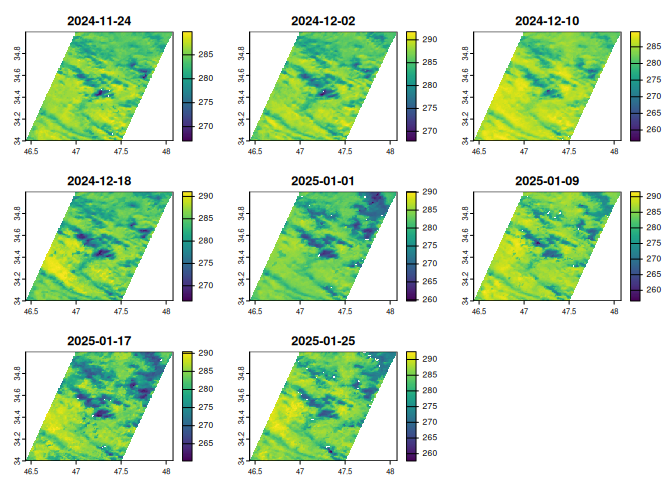
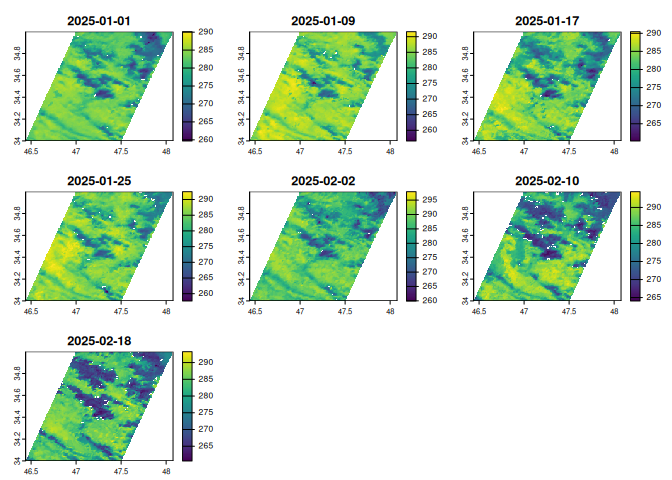
update readme

diff --git a/README.md b/README.md
@@ -14,17 +14,17 @@ Store - Microsoft Planetary Computer
 
 To install the development version of `getsat` from
 [GitHub](https://github.com/), use the
-[pak](https://CRAN.R-project.org/package=pak) package:
+[remotes](https://CRAN.R-project.org/package=remotes) package:
 
 ``` r
 # Install pak if not already installed
-install.packages("pak")
+install.packages("remotes")
 
 # Install getsat from GitHub
-pak::pak("jalilian/getsat")
+remotes::install_github("jalilian/getsat")
 ```
 
-## Example 1: Retrieve Elevation Data
+## Example 1: Retrieve elevation data
 
 The following example shows how to retrieve elevation data from the
 Copernicus Digital Elevation Model (DEM). You can specify a bounding box
@@ -52,15 +52,15 @@ elev2 <- get_dem(coords, res = 90)
 # Print retrieved elevation values
 head(elev2)
 #>         X1       X2 elevation
-#> 1 47.16671 34.65571  1647.810
-#> 2 47.01319 34.23099  1730.346
-#> 3 47.38901 34.13156  1525.568
-#> 4 47.28066 34.54409  2311.858
-#> 5 47.03034 34.63642  2183.548
-#> 6 47.30659 34.33944  1354.311
+#> 1 47.32860 34.27469  1387.128
+#> 2 47.43353 34.71647  1725.832
+#> 3 47.33100 34.18267  1261.436
+#> 4 47.03997 34.50158  1314.140
+#> 5 47.09230 34.58687  2308.736
+#> 6 47.27749 34.06161  1639.500
 ```
 
-## Example 2: Retrieve Elevation Data
+## Example 2: Retrieve temprature from MODIS
 
 This example shows how to retrieve 8-day daytime temperature data from
 the Moderate Resolution Imaging Spectroradiometer (MODIS). You can
@@ -70,9 +70,9 @@ period in the format “YYYY-MM-DD/YYYY-MM-DD”.
 ``` r
 # Retrieve temperature data for a bounding box (longitude/latitude) and specific time period
 temp <- get_modis(c(47, 34, 47.5, 35), var = "LST_Day_1KM",
-                  datetime = "2024-12-01/2025-01-28")
+                  datetime = "2025-01-01/2025-03-08")
 #> LST_Day_1KM has been found in collection(s): modis-21A2-061
-#>   |                                                                              |                                                                      |   0%  |                                                                              |====                                                                  |   6%  |                                                                              |=========                                                             |  12%  |                                                                              |=============                                                         |  19%  |                                                                              |==================                                                    |  25%  |                                                                              |======================                                                |  31%  |                                                                              |==========================                                            |  38%  |                                                                              |===============================                                       |  44%  |                                                                              |===================================                                   |  50%  |                                                                              |=======================================                               |  56%  |                                                                              |============================================                          |  62%  |                                                                              |================================================                      |  69%  |                                                                              |====================================================                  |  75%  |                                                                              |=========================================================             |  81%  |                                                                              |=============================================================         |  88%  |                                                                              |==================================================================    |  94%  |                                                                              |======================================================================| 100%
+#>   |                                                                              |                                                                      |   0%  |                                                                              |=====                                                                 |   7%  |                                                                              |==========                                                            |  14%  |                                                                              |===============                                                       |  21%  |                                                                              |====================                                                  |  29%  |                                                                              |=========================                                             |  36%  |                                                                              |==============================                                        |  43%  |                                                                              |===================================                                   |  50%  |                                                                              |========================================                              |  57%  |                                                                              |=============================================                         |  64%  |                                                                              |==================================================                    |  71%  |                                                                              |=======================================================               |  79%  |                                                                              |============================================================          |  86%  |                                                                              |=================================================================     |  93%  |                                                                              |======================================================================| 100%
 # plot retrived temperature data
 terra::plot(temp)
 ```
